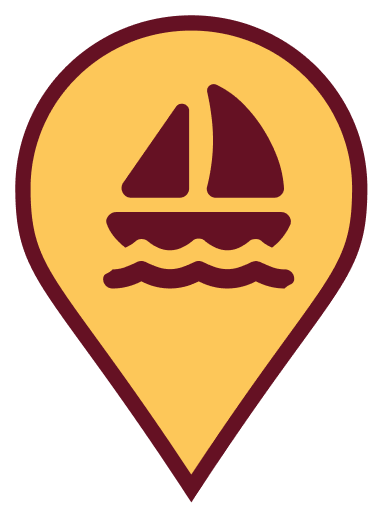
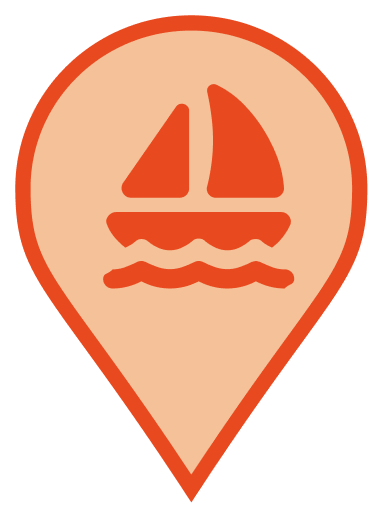
fix: iconkleuren en vervelende popup

diff --git a/script.js b/script.js
@@ -89,12 +89,12 @@ updateZoomButtons();//Initieel de zichtbaarheid van de knoppen bij pagina laden
 
 //---------------Coordinaten zoeken--------------------
 // Voeg een klikgebeurtenis toe om de coördinaten weer te geven
-  map.on('click', function(e) {
-    var coord = e.latlng;
-    var lat = coord.lat;
-    var lng = coord.lng;
-    alert("Je hebt geklikt op de coördinaten: " + lat + ", " + lng);
-  });
+  // map.on('click', function(e) {
+  //   var coord = e.latlng;
+  //   var lat = coord.lat;
+  //   var lng = coord.lng;
+  //   alert("Je hebt geklikt op de coördinaten: " + lat + ", " + lng);
+  // });
 
 //---------------Locatie van de gebruiker--------------------
 // Functie om de locatie van de gebruiker te verkrijgen en weer te geven
